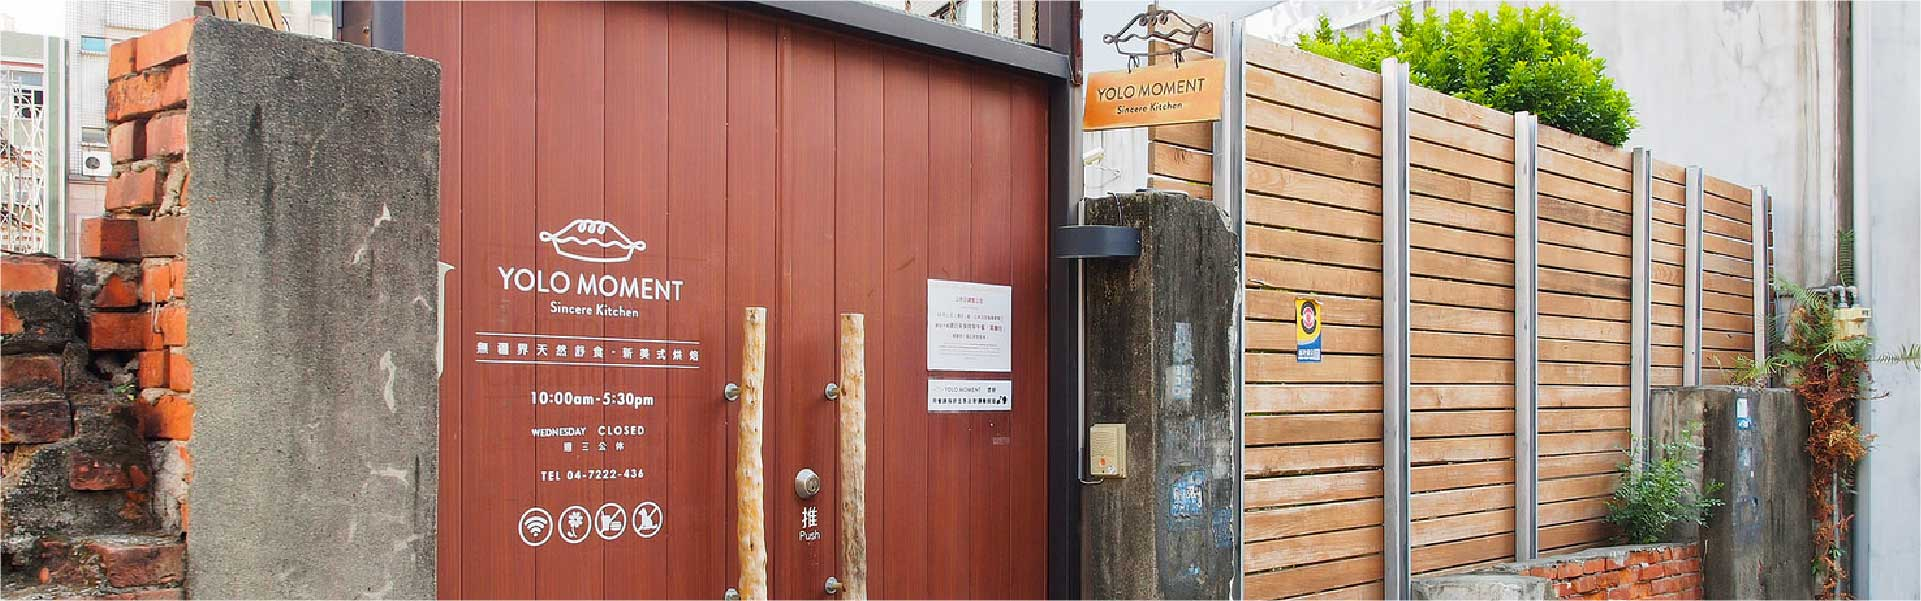
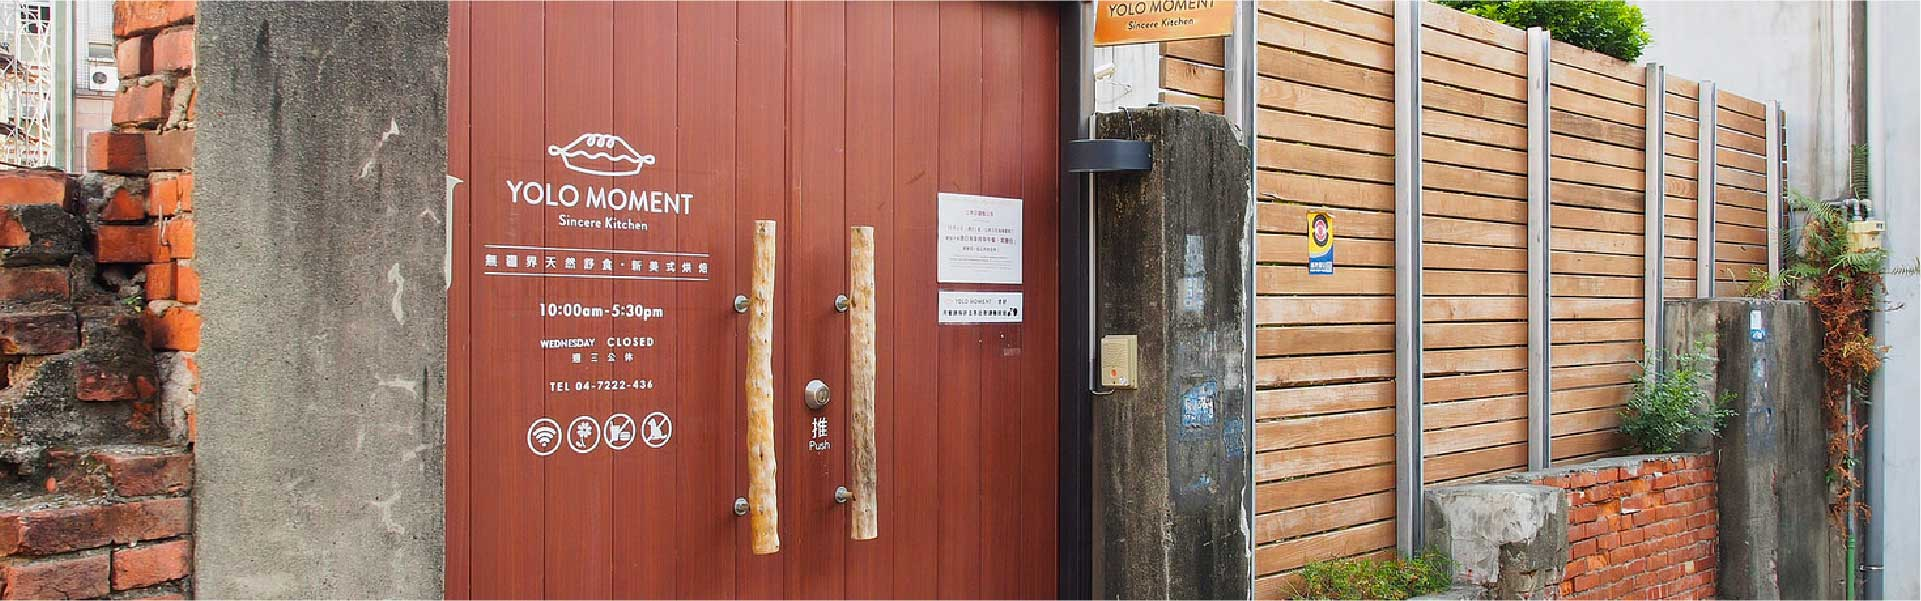
ver0.6.0

diff --git a/js/skrollr.min.js b/js/skrollr.min.js
@@ -1,0 +1,2 @@
+/*! skrollr 0.6.30 (2015-08-12) | Alexander Prinzhorn - https://github.com/Prinzhorn/skrollr | Free to use under terms of MIT license */
+!function(a,b,c){"use strict";function d(c){if(e=b.documentElement,f=b.body,T(),ha=this,c=c||{},ma=c.constants||{},c.easing)for(var d in c.easing)W[d]=c.easing[d];ta=c.edgeStrategy||"set",ka={beforerender:c.beforerender,render:c.render,keyframe:c.keyframe},la=c.forceHeight!==!1,la&&(Ka=c.scale||1),na=c.mobileDeceleration||y,pa=c.smoothScrolling!==!1,qa=c.smoothScrollingDuration||A,ra={targetTop:ha.getScrollTop()},Sa=(c.mobileCheck||function(){return/Android|iPhone|iPad|iPod|BlackBerry/i.test(navigator.userAgent||navigator.vendor||a.opera)})(),Sa?(ja=b.getElementById(c.skrollrBody||z),ja&&ga(),X(),Ea(e,[s,v],[t])):Ea(e,[s,u],[t]),ha.refresh(),wa(a,"resize orientationchange",function(){var a=e.clientWidth,b=e.clientHeight;(b!==Pa||a!==Oa)&&(Pa=b,Oa=a,Qa=!0)});var g=U();return function h(){$(),va=g(h)}(),ha}var e,f,g={get:function(){return ha},init:function(a){return ha||new d(a)},VERSION:"0.6.30"},h=Object.prototype.hasOwnProperty,i=a.Math,j=a.getComputedStyle,k="touchstart",l="touchmove",m="touchcancel",n="touchend",o="skrollable",p=o+"-before",q=o+"-between",r=o+"-after",s="skrollr",t="no-"+s,u=s+"-desktop",v=s+"-mobile",w="linear",x=1e3,y=.004,z="skrollr-body",A=200,B="start",C="end",D="center",E="bottom",F="___skrollable_id",G=/^(?:input|textarea|button|select)$/i,H=/^\s+|\s+$/g,I=/^data(?:-(_\w+))?(?:-?(-?\d*\.?\d+p?))?(?:-?(start|end|top|center|bottom))?(?:-?(top|center|bottom))?$/,J=/\s*(@?[\w\-\[\]]+)\s*:\s*(.+?)\s*(?:;|$)/gi,K=/^(@?[a-z\-]+)\[(\w+)\]$/,L=/-([a-z0-9_])/g,M=function(a,b){return b.toUpperCase()},N=/[\-+]?[\d]*\.?[\d]+/g,O=/\{\?\}/g,P=/rgba?\(\s*-?\d+\s*,\s*-?\d+\s*,\s*-?\d+/g,Q=/[a-z\-]+-gradient/g,R="",S="",T=function(){var a=/^(?:O|Moz|webkit|ms)|(?:-(?:o|moz|webkit|ms)-)/;if(j){var b=j(f,null);for(var c in b)if(R=c.match(a)||+c==c&&b[c].match(a))break;if(!R)return void(R=S="");R=R[0],"-"===R.slice(0,1)?(S=R,R={"-webkit-":"webkit","-moz-":"Moz","-ms-":"ms","-o-":"O"}[R]):S="-"+R.toLowerCase()+"-"}},U=function(){var b=a.requestAnimationFrame||a[R.toLowerCase()+"RequestAnimationFrame"],c=Ha();return(Sa||!b)&&(b=function(b){var d=Ha()-c,e=i.max(0,1e3/60-d);return a.setTimeout(function(){c=Ha(),b()},e)}),b},V=function(){var b=a.cancelAnimationFrame||a[R.toLowerCase()+"CancelAnimationFrame"];return(Sa||!b)&&(b=function(b){return a.clearTimeout(b)}),b},W={begin:function(){return 0},end:function(){return 1},linear:function(a){return a},quadratic:function(a){return a*a},cubic:function(a){return a*a*a},swing:function(a){return-i.cos(a*i.PI)/2+.5},sqrt:function(a){return i.sqrt(a)},outCubic:function(a){return i.pow(a-1,3)+1},bounce:function(a){var b;if(.5083>=a)b=3;else if(.8489>=a)b=9;else if(.96208>=a)b=27;else{if(!(.99981>=a))return 1;b=91}return 1-i.abs(3*i.cos(a*b*1.028)/b)}};d.prototype.refresh=function(a){var d,e,f=!1;for(a===c?(f=!0,ia=[],Ra=0,a=b.getElementsByTagName("*")):a.length===c&&(a=[a]),d=0,e=a.length;e>d;d++){var g=a[d],h=g,i=[],j=pa,k=ta,l=!1;if(f&&F in g&&delete g[F],g.attributes){for(var m=0,n=g.attributes.length;n>m;m++){var p=g.attributes[m];if("data-anchor-target"!==p.name)if("data-smooth-scrolling"!==p.name)if("data-edge-strategy"!==p.name)if("data-emit-events"!==p.name){var q=p.name.match(I);if(null!==q){var r={props:p.value,element:g,eventType:p.name.replace(L,M)};i.push(r);var s=q[1];s&&(r.constant=s.substr(1));var t=q[2];/p$/.test(t)?(r.isPercentage=!0,r.offset=(0|t.slice(0,-1))/100):r.offset=0|t;var u=q[3],v=q[4]||u;u&&u!==B&&u!==C?(r.mode="relative",r.anchors=[u,v]):(r.mode="absolute",u===C?r.isEnd=!0:r.isPercentage||(r.offset=r.offset*Ka))}}else l=!0;else k=p.value;else j="off"!==p.value;else if(h=b.querySelector(p.value),null===h)throw'Unable to find anchor target "'+p.value+'"'}if(i.length){var w,x,y;!f&&F in g?(y=g[F],w=ia[y].styleAttr,x=ia[y].classAttr):(y=g[F]=Ra++,w=g.style.cssText,x=Da(g)),ia[y]={element:g,styleAttr:w,classAttr:x,anchorTarget:h,keyFrames:i,smoothScrolling:j,edgeStrategy:k,emitEvents:l,lastFrameIndex:-1},Ea(g,[o],[])}}}for(Aa(),d=0,e=a.length;e>d;d++){var z=ia[a[d][F]];z!==c&&(_(z),ba(z))}return ha},d.prototype.relativeToAbsolute=function(a,b,c){var d=e.clientHeight,f=a.getBoundingClientRect(),g=f.top,h=f.bottom-f.top;return b===E?g-=d:b===D&&(g-=d/2),c===E?g+=h:c===D&&(g+=h/2),g+=ha.getScrollTop(),g+.5|0},d.prototype.animateTo=function(a,b){b=b||{};var d=Ha(),e=ha.getScrollTop(),f=b.duration===c?x:b.duration;return oa={startTop:e,topDiff:a-e,targetTop:a,duration:f,startTime:d,endTime:d+f,easing:W[b.easing||w],done:b.done},oa.topDiff||(oa.done&&oa.done.call(ha,!1),oa=c),ha},d.prototype.stopAnimateTo=function(){oa&&oa.done&&oa.done.call(ha,!0),oa=c},d.prototype.isAnimatingTo=function(){return!!oa},d.prototype.isMobile=function(){return Sa},d.prototype.setScrollTop=function(b,c){return sa=c===!0,Sa?Ta=i.min(i.max(b,0),Ja):a.scrollTo(0,b),ha},d.prototype.getScrollTop=function(){return Sa?Ta:a.pageYOffset||e.scrollTop||f.scrollTop||0},d.prototype.getMaxScrollTop=function(){return Ja},d.prototype.on=function(a,b){return ka[a]=b,ha},d.prototype.off=function(a){return delete ka[a],ha},d.prototype.destroy=function(){var a=V();a(va),ya(),Ea(e,[t],[s,u,v]);for(var b=0,d=ia.length;d>b;b++)fa(ia[b].element);e.style.overflow=f.style.overflow="",e.style.height=f.style.height="",ja&&g.setStyle(ja,"transform","none"),ha=c,ja=c,ka=c,la=c,Ja=0,Ka=1,ma=c,na=c,La="down",Ma=-1,Oa=0,Pa=0,Qa=!1,oa=c,pa=c,qa=c,ra=c,sa=c,Ra=0,ta=c,Sa=!1,Ta=0,ua=c};var X=function(){var d,g,h,j,o,p,q,r,s,t,u,v;wa(e,[k,l,m,n].join(" "),function(a){var e=a.changedTouches[0];for(j=a.target;3===j.nodeType;)j=j.parentNode;switch(o=e.clientY,p=e.clientX,t=a.timeStamp,G.test(j.tagName)||a.preventDefault(),a.type){case k:d&&d.blur(),ha.stopAnimateTo(),d=j,g=q=o,h=p,s=t;break;case l:G.test(j.tagName)&&b.activeElement!==j&&a.preventDefault(),r=o-q,v=t-u,ha.setScrollTop(Ta-r,!0),q=o,u=t;break;default:case m:case n:var f=g-o,w=h-p,x=w*w+f*f;if(49>x){if(!G.test(d.tagName)){d.focus();var y=b.createEvent("MouseEvents");y.initMouseEvent("click",!0,!0,a.view,1,e.screenX,e.screenY,e.clientX,e.clientY,a.ctrlKey,a.altKey,a.shiftKey,a.metaKey,0,null),d.dispatchEvent(y)}return}d=c;var z=r/v;z=i.max(i.min(z,3),-3);var A=i.abs(z/na),B=z*A+.5*na*A*A,C=ha.getScrollTop()-B,D=0;C>Ja?(D=(Ja-C)/B,C=Ja):0>C&&(D=-C/B,C=0),A*=1-D,ha.animateTo(C+.5|0,{easing:"outCubic",duration:A})}}),a.scrollTo(0,0),e.style.overflow=f.style.overflow="hidden"},Y=function(){var a,b,c,d,f,g,h,j,k,l,m,n=e.clientHeight,o=Ba();for(j=0,k=ia.length;k>j;j++)for(a=ia[j],b=a.element,c=a.anchorTarget,d=a.keyFrames,f=0,g=d.length;g>f;f++)h=d[f],l=h.offset,m=o[h.constant]||0,h.frame=l,h.isPercentage&&(l*=n,h.frame=l),"relative"===h.mode&&(fa(b),h.frame=ha.relativeToAbsolute(c,h.anchors[0],h.anchors[1])-l,fa(b,!0)),h.frame+=m,la&&!h.isEnd&&h.frame>Ja&&(Ja=h.frame);for(Ja=i.max(Ja,Ca()),j=0,k=ia.length;k>j;j++){for(a=ia[j],d=a.keyFrames,f=0,g=d.length;g>f;f++)h=d[f],m=o[h.constant]||0,h.isEnd&&(h.frame=Ja-h.offset+m);a.keyFrames.sort(Ia)}},Z=function(a,b){for(var c=0,d=ia.length;d>c;c++){var e,f,i=ia[c],j=i.element,k=i.smoothScrolling?a:b,l=i.keyFrames,m=l.length,n=l[0],s=l[l.length-1],t=k<n.frame,u=k>s.frame,v=t?n:s,w=i.emitEvents,x=i.lastFrameIndex;if(t||u){if(t&&-1===i.edge||u&&1===i.edge)continue;switch(t?(Ea(j,[p],[r,q]),w&&x>-1&&(za(j,n.eventType,La),i.lastFrameIndex=-1)):(Ea(j,[r],[p,q]),w&&m>x&&(za(j,s.eventType,La),i.lastFrameIndex=m)),i.edge=t?-1:1,i.edgeStrategy){case"reset":fa(j);continue;case"ease":k=v.frame;break;default:case"set":var y=v.props;for(e in y)h.call(y,e)&&(f=ea(y[e].value),0===e.indexOf("@")?j.setAttribute(e.substr(1),f):g.setStyle(j,e,f));continue}}else 0!==i.edge&&(Ea(j,[o,q],[p,r]),i.edge=0);for(var z=0;m-1>z;z++)if(k>=l[z].frame&&k<=l[z+1].frame){var A=l[z],B=l[z+1];for(e in A.props)if(h.call(A.props,e)){var C=(k-A.frame)/(B.frame-A.frame);C=A.props[e].easing(C),f=da(A.props[e].value,B.props[e].value,C),f=ea(f),0===e.indexOf("@")?j.setAttribute(e.substr(1),f):g.setStyle(j,e,f)}w&&x!==z&&("down"===La?za(j,A.eventType,La):za(j,B.eventType,La),i.lastFrameIndex=z);break}}},$=function(){Qa&&(Qa=!1,Aa());var a,b,d=ha.getScrollTop(),e=Ha();if(oa)e>=oa.endTime?(d=oa.targetTop,a=oa.done,oa=c):(b=oa.easing((e-oa.startTime)/oa.duration),d=oa.startTop+b*oa.topDiff|0),ha.setScrollTop(d,!0);else if(!sa){var f=ra.targetTop-d;f&&(ra={startTop:Ma,topDiff:d-Ma,targetTop:d,startTime:Na,endTime:Na+qa}),e<=ra.endTime&&(b=W.sqrt((e-ra.startTime)/qa),d=ra.startTop+b*ra.topDiff|0)}if(sa||Ma!==d){La=d>Ma?"down":Ma>d?"up":La,sa=!1;var h={curTop:d,lastTop:Ma,maxTop:Ja,direction:La},i=ka.beforerender&&ka.beforerender.call(ha,h);i!==!1&&(Z(d,ha.getScrollTop()),Sa&&ja&&g.setStyle(ja,"transform","translate(0, "+-Ta+"px) "+ua),Ma=d,ka.render&&ka.render.call(ha,h)),a&&a.call(ha,!1)}Na=e},_=function(a){for(var b=0,c=a.keyFrames.length;c>b;b++){for(var d,e,f,g,h=a.keyFrames[b],i={};null!==(g=J.exec(h.props));)f=g[1],e=g[2],d=f.match(K),null!==d?(f=d[1],d=d[2]):d=w,e=e.indexOf("!")?aa(e):[e.slice(1)],i[f]={value:e,easing:W[d]};h.props=i}},aa=function(a){var b=[];return P.lastIndex=0,a=a.replace(P,function(a){return a.replace(N,function(a){return a/255*100+"%"})}),S&&(Q.lastIndex=0,a=a.replace(Q,function(a){return S+a})),a=a.replace(N,function(a){return b.push(+a),"{?}"}),b.unshift(a),b},ba=function(a){var b,c,d={};for(b=0,c=a.keyFrames.length;c>b;b++)ca(a.keyFrames[b],d);for(d={},b=a.keyFrames.length-1;b>=0;b--)ca(a.keyFrames[b],d)},ca=function(a,b){var c;for(c in b)h.call(a.props,c)||(a.props[c]=b[c]);for(c in a.props)b[c]=a.props[c]},da=function(a,b,c){var d,e=a.length;if(e!==b.length)throw"Can't interpolate between \""+a[0]+'" and "'+b[0]+'"';var f=[a[0]];for(d=1;e>d;d++)f[d]=a[d]+(b[d]-a[d])*c;return f},ea=function(a){var b=1;return O.lastIndex=0,a[0].replace(O,function(){return a[b++]})},fa=function(a,b){a=[].concat(a);for(var c,d,e=0,f=a.length;f>e;e++)d=a[e],c=ia[d[F]],c&&(b?(d.style.cssText=c.dirtyStyleAttr,Ea(d,c.dirtyClassAttr)):(c.dirtyStyleAttr=d.style.cssText,c.dirtyClassAttr=Da(d),d.style.cssText=c.styleAttr,Ea(d,c.classAttr)))},ga=function(){ua="translateZ(0)",g.setStyle(ja,"transform",ua);var a=j(ja),b=a.getPropertyValue("transform"),c=a.getPropertyValue(S+"transform"),d=b&&"none"!==b||c&&"none"!==c;d||(ua="")};g.setStyle=function(a,b,c){var d=a.style;if(b=b.replace(L,M).replace("-",""),"zIndex"===b)isNaN(c)?d[b]=c:d[b]=""+(0|c);else if("float"===b)d.styleFloat=d.cssFloat=c;else try{R&&(d[R+b.slice(0,1).toUpperCase()+b.slice(1)]=c),d[b]=c}catch(e){}};var ha,ia,ja,ka,la,ma,na,oa,pa,qa,ra,sa,ta,ua,va,wa=g.addEvent=function(b,c,d){var e=function(b){return b=b||a.event,b.target||(b.target=b.srcElement),b.preventDefault||(b.preventDefault=function(){b.returnValue=!1,b.defaultPrevented=!0}),d.call(this,b)};c=c.split(" ");for(var f,g=0,h=c.length;h>g;g++)f=c[g],b.addEventListener?b.addEventListener(f,d,!1):b.attachEvent("on"+f,e),Ua.push({element:b,name:f,listener:d})},xa=g.removeEvent=function(a,b,c){b=b.split(" ");for(var d=0,e=b.length;e>d;d++)a.removeEventListener?a.removeEventListener(b[d],c,!1):a.detachEvent("on"+b[d],c)},ya=function(){for(var a,b=0,c=Ua.length;c>b;b++)a=Ua[b],xa(a.element,a.name,a.listener);Ua=[]},za=function(a,b,c){ka.keyframe&&ka.keyframe.call(ha,a,b,c)},Aa=function(){var a=ha.getScrollTop();Ja=0,la&&!Sa&&(f.style.height=""),Y(),la&&!Sa&&(f.style.height=Ja+e.clientHeight+"px"),Sa?ha.setScrollTop(i.min(ha.getScrollTop(),Ja)):ha.setScrollTop(a,!0),sa=!0},Ba=function(){var a,b,c=e.clientHeight,d={};for(a in ma)b=ma[a],"function"==typeof b?b=b.call(ha):/p$/.test(b)&&(b=b.slice(0,-1)/100*c),d[a]=b;return d},Ca=function(){var a,b=0;return ja&&(b=i.max(ja.offsetHeight,ja.scrollHeight)),a=i.max(b,f.scrollHeight,f.offsetHeight,e.scrollHeight,e.offsetHeight,e.clientHeight),a-e.clientHeight},Da=function(b){var c="className";return a.SVGElement&&b instanceof a.SVGElement&&(b=b[c],c="baseVal"),b[c]},Ea=function(b,d,e){var f="className";if(a.SVGElement&&b instanceof a.SVGElement&&(b=b[f],f="baseVal"),e===c)return void(b[f]=d);for(var g=b[f],h=0,i=e.length;i>h;h++)g=Ga(g).replace(Ga(e[h])," ");g=Fa(g);for(var j=0,k=d.length;k>j;j++)-1===Ga(g).indexOf(Ga(d[j]))&&(g+=" "+d[j]);b[f]=Fa(g)},Fa=function(a){return a.replace(H,"")},Ga=function(a){return" "+a+" "},Ha=Date.now||function(){return+new Date},Ia=function(a,b){return a.frame-b.frame},Ja=0,Ka=1,La="down",Ma=-1,Na=Ha(),Oa=0,Pa=0,Qa=!1,Ra=0,Sa=!1,Ta=0,Ua=[];"function"==typeof define&&define.amd?define([],function(){return g}):"undefined"!=typeof module&&module.exports?module.exports=g:a.skrollr=g}(window,document);

diff --git a/index.html b/index.html
@@ -56,6 +56,7 @@
            
         </nav>
         <section class="section1">
+                <div class="img_logo"  ></div>
             <div class="swiper-container" id="banner">
                 <div class="swiper-wrapper">
                     <div class="swiper-slide" v-for=" imgs in carousel_datas" >
@@ -63,7 +64,7 @@
                         <div class="img_full">
                             <div class="cover"></div>
                         <div class="img" :style="'background-image:url(img/index/' + imgs.img+ ')'" >
-                            <div class="img_logo" :style="'background-image:url(img/index/' + imgs.logo+ ')'" ></div>
+                            
                         </div>
                         </div>
                     </div>
@@ -103,7 +104,7 @@
                 </div>
             </div>
         </section>
-        <section class="section3">
+        <section class="section3" data-start="background-position:center 0px;" data-100-end="background-position:center -500px ;">
 
             <div class="container">
                 <h2>YOLO
@@ -124,7 +125,7 @@
                 <div></div>
             </div>
         </section>
-        <section class="section5">
+        <section class="section5" data-start="background-position:center 300px;" data-100-end="background-position:center -300px ;">
             <div class="container justify-content-center">
                 <h2 class="text-right">YOLO<br>MOMENT<br>Bakery</h2>
                 <p class="text-right">使用當季當令在地食材、優質進口原料以及我們的愛</p>
@@ -195,6 +196,7 @@
         crossorigin="anonymous"></script>
     <script src="https://stackpath.bootstrapcdn.com/bootstrap/4.1.3/js/bootstrap.min.js" integrity="sha384-ChfqqxuZUCnJSK3+MXmPNIyE6ZbWh2IMqE241rYiqJxyMiZ6OW/JmZQ5stwEULTy"
         crossorigin="anonymous"></script>
+<script src="js/skrollr.min.js"></script>
     <script src="https://cdnjs.cloudflare.com/ajax/libs/Swiper/4.3.3/js/swiper.min.js"></script>
     <script src="https://maps.googleapis.com/maps/api/js?key=AIzaSyAEEcM51OxR_zSr5tj9n6L5lKj-Mv58Na8&callback=initMap" async defer></script>
     <script src="js/array.js"></script>

diff --git a/news.html b/news.html
@@ -70,21 +70,24 @@
                         <div class="swiper-slide">
                             <div class="container">
                                 <div class="cover">
-                                   <img src="img/news/news_events_01.jpg" alt="">
+                                   <img class="d-lg-block d-none" src="img/news/news_events_01.jpg" alt="">
+                                   <img class="d-lg-none d-block" src="img/news/news_events_phone_01.jpg" alt="">
                                 </div>
                             </div>
                         </div>
                         <div class="swiper-slide">
                             <div class="container">
                                 <div class="cover">
-                                   <img src="img/news/news_events_02.jpg" alt="">
+                                        <img class="d-lg-block d-none" src="img/news/news_events_02.png" alt="">
+                                        <img class="d-lg-none d-block" src="img/news/news_events_phone_02.jpg" alt="">
                                 </div>
                             </div>
                         </div>
                         <div class="swiper-slide">
                             <div class="container">
                                 <div class="cover">
-                                   <img src="img/news/news_events_03.jpg" alt="">
+                                        <img class="d-lg-block d-none" src="img/news/news_events_03.png" alt="">
+                                        <img class="d-lg-none d-block" src="img/news/news_events_phone_03.jpg" alt="">
                                 </div>
                             </div>
                         </div>

diff --git a/restaurant.html b/restaurant.html
@@ -110,12 +110,20 @@
                     </div>
                     <div class="col-12 col-lg-6">
                         <div class="row">
-                            <div class="col-12 col-lg-12">
+                            <div class="col-12 col-lg-12 d-none d-lg-block">
                                 <img src="img/restaurant/food_06.jpg" alt="">
                                 <p>漢普頓雞肉沙拉三明治</p>
                             </div>
-                            <div class="col-12 col-lg-12">
+                            <div class="col-12 col-lg-12 d-none d-lg-block">
                                 <img src="img/restaurant/food_07.jpg">
+                                <p>歐海山谷三明治</p>
+                            </div>
+                            <div class="col-12 col-lg-12 d-block d-lg-none">
+                                <img src="img/restaurant/food_08.jpg">
+                                <p>歐海山谷三明治</p>
+                            </div>
+                            <div class="col-12 col-lg-12 d-block d-lg-none">
+                                <img src="img/restaurant/food_08.jpg">
                                 <p>歐海山谷三明治</p>
                             </div>
                         </div>
@@ -137,7 +145,7 @@
                 </div>
             </div>
         </section>
-       
+
         <section class="section4">
             <h2 class="text-center">MENU</h2>
             <div class="container">
@@ -383,6 +391,6 @@
             gutter: 10
         });
     </script> -->
-                                                                 </body>
+</body>
 
 </html>

diff --git a/css/index.css b/css/index.css
@@ -60,6 +60,17 @@ section{
     height: 100vh;
     padding: 0;
 }
+.section1 .img_logo{
+    width: 250px;
+    height: 250px;
+    background-size: cover;
+    position: absolute;
+    top: 50%;
+    left: 50%;
+    transform: translate(-50%, -50%);
+    z-index: 10;
+    background-image: url("../img/index/banner_logo_01.png");
+}
 .section1 .swiper-container {
     width: 100%;
     height: 100%;
@@ -88,17 +99,6 @@ section{
       background-position:  center;
       position: relative;
   }
-  .section1 .swiper-slide .img .img_logo{
-    width: 250px;
-    height: 250px;
-    background-size: cover;
-    position: absolute;
-    top: 50%;
-    left: 50%;
-    transform: translate(-50%, -50%);
-    z-index: 10;
-    
-}
   .section1 .swiper-pagination-bullet {
     width: 15px;
     height: 15px;
@@ -215,6 +215,7 @@ section{
     color: #fff;
     padding: 86px 0;
     padding-bottom: 117px;
+    /* transition: .2s; */
 }
 .section3 h2 , .section5 h2{
     margin-bottom: 60px;

diff --git a/css/nav.css b/css/nav.css
@@ -39,7 +39,7 @@ body {
     z-index: 99;
     box-sizing: border-box;
     width: 100%;
-    box-shadow: 0 0 100px #42210b;
+    box-shadow: 0 0  30px  rgba(0,0,0,.5);
     padding: 20px 12%;
     
 
@@ -131,7 +131,7 @@ footer p{
     .navbar {
         position: fixed;
         padding: 25px 15px;
-        box-shadow: 0 0 30px #42210b;
+        box-shadow: 0 0 30px rgba(0,0,0,.5);
     }
     .navbar button {
         border: none;

diff --git a/css/news.css b/css/news.css
@@ -186,6 +186,9 @@ section{
         margin-bottom: 10px;
         padding-bottom: 10px;
     }
+    .section2 img {
+        width: calc(100% - 0px);
+    }
     .section2 h3{
         margin-bottom: 15px;
     }

diff --git a/js/script.js b/js/script.js
@@ -81,6 +81,3 @@ $(".pagination a").on("click", function (e) {
 });
 
 
-
-
-    

diff --git a/js/index.js b/js/index.js
@@ -120,3 +120,5 @@ function initMap() {
     });
 
 }
+
+var s = skrollr.init();
